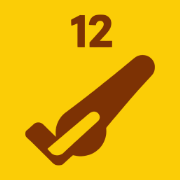
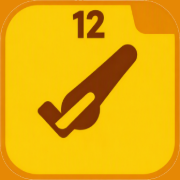
アイコンは★渡された絵そのまま★（枠と折り返しごと）。白の余白だけ消した
前の私の版は ★勝手に枠を外していた★。司さんが渡した絵が正。戻した。
・カード（枠の外周）を ★タイルいっぱい★ に伸ばした（横1344:縦1219→正方形。縦に約10%）
・★元の絵の外側は「透明」ではなく「白」★だったので、下地を塗っても白が上書きしていた
  → 白い画素と透明な画素を ★縁の橙 #E68805★ に置き換えてから伸ばす
  → 角の丸みの外側も橙になり、★白が1pxも残らない★

★これは検査が捕まえた★（目では気づけなかった）:
  tests/home-icon.test.mjs が PNGを自前で展開して四隅の画素を読む。
  直す前は 5枚×四隅=20点すべて #FFFFFF だった → 今は20点すべて #E68805・白0点。
  ★何色であるべきかは決め打ちしない★（絵を替えたら色は変わる）。決まっているのは白が無い事。

node tests/run.js → 全部 緑（32本）

Claude-Session: https://claude.ai/code/session_01XubSutqQm3uxgvTByL8qyQ

diff --git a/index.html b/index.html
@@ -4,24 +4,24 @@
     <meta charset="utf-8" />
     <meta name="viewport" content="width=device-width,initial-scale=1,viewport-fit=cover" />
     <title>Timeally — 一覧</title>
-    <link rel="icon" href="icons/favicon-32.png?v=93219b22" sizes="32x32" />
-    <link rel="apple-touch-icon" href="icons/apple-touch-icon.png?v=93219b22" />
+    <link rel="icon" href="icons/favicon-32.png?v=f30f1502" sizes="32x32" />
+    <link rel="apple-touch-icon" href="icons/apple-touch-icon.png?v=f30f1502" />
     <meta name="apple-mobile-web-app-capable" content="yes" />
     <meta name="apple-mobile-web-app-status-bar-style" content="default" />
     <meta name="apple-mobile-web-app-title" content="Timeally" />
     <meta name="theme-color" content="#FFC72C" />
-    <link rel="manifest" href="manifest.json?v=93219b22" />
+    <link rel="manifest" href="manifest.json?v=f30f1502" />
     <link rel="preconnect" href="https://fonts.googleapis.com" />
     <link rel="preconnect" href="https://fonts.gstatic.com" crossorigin />
     <link href="https://fonts.googleapis.com/css2?family=DM+Mono:wght@400;500&family=Noto+Sans+JP:wght@400;700&display=swap" rel="stylesheet" />
-    <link rel="stylesheet" href="css/timeally.css?v=93219b22" />
+    <link rel="stylesheet" href="css/timeally.css?v=f30f1502" />
   </head>
   <body>
     <div class="tc-appbar">
       <h1>Timeally</h1>
       <span class="tc-sub" id="coname"></span>
       <span class="tc-spacer"></span>
-      <a class="tc-btn sub" href="shukei.html?v=93219b22">集計・印刷</a>
+      <a class="tc-btn sub" href="shukei.html?v=f30f1502">集計・印刷</a>
     </div>
 
     <div class="tc-wrap" id="main" hidden>
@@ -108,17 +108,17 @@
       </section>
     </div>
     <script src="https://cdn.jsdelivr.net/npm/@supabase/supabase-js@2"></script>
-    <script src="js/supa-config.js?v=93219b22"></script>
-    <script src="js/env-badge.js?v=93219b22"></script>
-    <script src="lib/tc-law.js?v=93219b22"></script>
-    <script src="lib/tc-calc.js?v=93219b22"></script>
-    <script src="lib/tc-csv.js?v=93219b22"></script>
-    <script src="lib/tc-name.js?v=93219b22"></script>
-    <script src="lib/qr.js?v=93219b22"></script>
-    <script src="js/file-out.js?v=93219b22"></script>
-    <script src="js/tc-ui.js?v=93219b22"></script>
-    <script src="js/tc-db.js?v=93219b22"></script>
-    <script src="js/owner-app.js?v=93219b22"></script>
+    <script src="js/supa-config.js?v=f30f1502"></script>
+    <script src="js/env-badge.js?v=f30f1502"></script>
+    <script src="lib/tc-law.js?v=f30f1502"></script>
+    <script src="lib/tc-calc.js?v=f30f1502"></script>
+    <script src="lib/tc-csv.js?v=f30f1502"></script>
+    <script src="lib/tc-name.js?v=f30f1502"></script>
+    <script src="lib/qr.js?v=f30f1502"></script>
+    <script src="js/file-out.js?v=f30f1502"></script>
+    <script src="js/tc-ui.js?v=f30f1502"></script>
+    <script src="js/tc-db.js?v=f30f1502"></script>
+    <script src="js/owner-app.js?v=f30f1502"></script>
     <script>
       OwnerApp.startIndex();
     </script>

diff --git a/shukei.html b/shukei.html
@@ -4,24 +4,24 @@
     <meta charset="utf-8" />
     <meta name="viewport" content="width=device-width,initial-scale=1,viewport-fit=cover" />
     <title>Timeally — 集計・印刷</title>
-    <link rel="icon" href="icons/favicon-32.png?v=93219b22" sizes="32x32" />
-    <link rel="apple-touch-icon" href="icons/apple-touch-icon.png?v=93219b22" />
+    <link rel="icon" href="icons/favicon-32.png?v=f30f1502" sizes="32x32" />
+    <link rel="apple-touch-icon" href="icons/apple-touch-icon.png?v=f30f1502" />
     <meta name="apple-mobile-web-app-capable" content="yes" />
     <meta name="apple-mobile-web-app-status-bar-style" content="default" />
     <meta name="apple-mobile-web-app-title" content="Timeally" />
     <meta name="theme-color" content="#FFC72C" />
-    <link rel="manifest" href="manifest.json?v=93219b22" />
+    <link rel="manifest" href="manifest.json?v=f30f1502" />
     <link rel="preconnect" href="https://fonts.googleapis.com" />
     <link rel="preconnect" href="https://fonts.gstatic.com" crossorigin />
     <link href="https://fonts.googleapis.com/css2?family=DM+Mono:wght@400;500&family=Noto+Sans+JP:wght@400;700&display=swap" rel="stylesheet" />
-    <link rel="stylesheet" href="css/timeally.css?v=93219b22" />
+    <link rel="stylesheet" href="css/timeally.css?v=f30f1502" />
   </head>
   <body>
     <div class="tc-appbar">
       <h1>Timeally</h1>
       <span class="tc-sub">集計・印刷</span>
       <span class="tc-spacer"></span>
-      <a class="tc-btn sub" href="index.html?v=93219b22">一覧へ</a>
+      <a class="tc-btn sub" href="index.html?v=f30f1502">一覧へ</a>
     </div>
 
     <div class="tc-wrap" id="main" hidden>
@@ -54,16 +54,16 @@
       </div>
     </div>
     <script src="https://cdn.jsdelivr.net/npm/@supabase/supabase-js@2"></script>
-    <script src="js/supa-config.js?v=93219b22"></script>
-    <script src="js/env-badge.js?v=93219b22"></script>
-    <script src="lib/tc-law.js?v=93219b22"></script>
-    <script src="lib/tc-calc.js?v=93219b22"></script>
-    <script src="lib/tc-csv.js?v=93219b22"></script>
-    <script src="lib/tc-name.js?v=93219b22"></script>
-    <script src="js/file-out.js?v=93219b22"></script>
-    <script src="js/tc-ui.js?v=93219b22"></script>
-    <script src="js/tc-db.js?v=93219b22"></script>
-    <script src="js/owner-app.js?v=93219b22"></script>
+    <script src="js/supa-config.js?v=f30f1502"></script>
+    <script src="js/env-badge.js?v=f30f1502"></script>
+    <script src="lib/tc-law.js?v=f30f1502"></script>
+    <script src="lib/tc-calc.js?v=f30f1502"></script>
+    <script src="lib/tc-csv.js?v=f30f1502"></script>
+    <script src="lib/tc-name.js?v=f30f1502"></script>
+    <script src="js/file-out.js?v=f30f1502"></script>
+    <script src="js/tc-ui.js?v=f30f1502"></script>
+    <script src="js/tc-db.js?v=f30f1502"></script>
+    <script src="js/owner-app.js?v=f30f1502"></script>
     <script>
       OwnerApp.startShukei();
     </script>

diff --git a/login.html b/login.html
@@ -4,17 +4,17 @@
     <meta charset="utf-8" />
     <meta name="viewport" content="width=device-width,initial-scale=1,viewport-fit=cover" />
     <title>Timeally — 会社の入口</title>
-    <link rel="icon" href="icons/favicon-32.png?v=93219b22" sizes="32x32" />
-    <link rel="apple-touch-icon" href="icons/apple-touch-icon.png?v=93219b22" />
+    <link rel="icon" href="icons/favicon-32.png?v=f30f1502" sizes="32x32" />
+    <link rel="apple-touch-icon" href="icons/apple-touch-icon.png?v=f30f1502" />
     <meta name="apple-mobile-web-app-capable" content="yes" />
     <meta name="apple-mobile-web-app-status-bar-style" content="default" />
     <meta name="apple-mobile-web-app-title" content="Timeally" />
     <meta name="theme-color" content="#FFC72C" />
-    <link rel="manifest" href="manifest.json?v=93219b22" />
+    <link rel="manifest" href="manifest.json?v=f30f1502" />
     <link rel="preconnect" href="https://fonts.googleapis.com" />
     <link rel="preconnect" href="https://fonts.gstatic.com" crossorigin />
     <link href="https://fonts.googleapis.com/css2?family=DM+Mono:wght@400;500&family=Noto+Sans+JP:wght@400;700&display=swap" rel="stylesheet" />
-    <link rel="stylesheet" href="css/timeally.css?v=93219b22" />
+    <link rel="stylesheet" href="css/timeally.css?v=f30f1502" />
   </head>
   <body>
     <div class="tc-appbar">
@@ -43,11 +43,11 @@
     </div>
 
     <script src="https://cdn.jsdelivr.net/npm/@supabase/supabase-js@2"></script>
-    <script src="js/supa-config.js?v=93219b22"></script>
-    <script src="js/env-badge.js?v=93219b22"></script>
-    <script src="js/tc-ui.js?v=93219b22"></script>
-    <script src="js/tc-db.js?v=93219b22"></script>
-    <script src="js/owner-app.js?v=93219b22"></script>
+    <script src="js/supa-config.js?v=f30f1502"></script>
+    <script src="js/env-badge.js?v=f30f1502"></script>
+    <script src="js/tc-ui.js?v=f30f1502"></script>
+    <script src="js/tc-db.js?v=f30f1502"></script>
+    <script src="js/owner-app.js?v=f30f1502"></script>
     <script>
       OwnerApp.startLogin();
     </script>

diff --git a/kiroku.html b/kiroku.html
@@ -5,8 +5,8 @@
     <meta name="viewport" content="width=device-width,initial-scale=1,viewport-fit=cover" />
     <meta name="format-detection" content="telephone=no" />
     <title>Timeally — 自分の記録</title>
-    <link rel="icon" href="icons/favicon-32.png?v=93219b22" sizes="32x32" />
-    <link rel="apple-touch-icon" href="icons/apple-touch-icon.png?v=93219b22" />
+    <link rel="icon" href="icons/favicon-32.png?v=f30f1502" sizes="32x32" />
+    <link rel="apple-touch-icon" href="icons/apple-touch-icon.png?v=f30f1502" />
     <meta name="apple-mobile-web-app-capable" content="yes" />
     <meta name="apple-mobile-web-app-status-bar-style" content="default" />
     <meta name="apple-mobile-web-app-title" content="Timeally" />
@@ -14,7 +14,7 @@
     <link rel="preconnect" href="https://fonts.googleapis.com" />
     <link rel="preconnect" href="https://fonts.gstatic.com" crossorigin />
     <link href="https://fonts.googleapis.com/css2?family=DM+Mono:wght@400;500&family=Noto+Sans+JP:wght@400;700&display=swap" rel="stylesheet" />
-    <link rel="stylesheet" href="css/timeally.css?v=93219b22" />
+    <link rel="stylesheet" href="css/timeally.css?v=f30f1502" />
   </head>
   <body>
     <div class="tc-appbar">
@@ -71,11 +71,11 @@
     </div>
 
     <script src="https://cdn.jsdelivr.net/npm/@supabase/supabase-js@2"></script>
-    <script src="js/supa-config.js?v=93219b22"></script>
-    <script src="js/env-badge.js?v=93219b22"></script>
-    <script src="js/tc-ui.js?v=93219b22"></script>
-    <script src="js/tc-db.js?v=93219b22"></script>
-    <script src="js/emp-app.js?v=93219b22"></script>
+    <script src="js/supa-config.js?v=f30f1502"></script>
+    <script src="js/env-badge.js?v=f30f1502"></script>
+    <script src="js/tc-ui.js?v=f30f1502"></script>
+    <script src="js/tc-db.js?v=f30f1502"></script>
+    <script src="js/emp-app.js?v=f30f1502"></script>
     <script>
       EmpApp.startKiroku();
     </script>

diff --git a/punch.html b/punch.html
@@ -5,8 +5,8 @@
     <meta name="viewport" content="width=device-width,initial-scale=1,viewport-fit=cover" />
     <meta name="format-detection" content="telephone=no" />
     <title>Timeally — 打刻</title>
-    <link rel="icon" href="icons/favicon-32.png?v=93219b22" sizes="32x32" />
-    <link rel="apple-touch-icon" href="icons/apple-touch-icon.png?v=93219b22" />
+    <link rel="icon" href="icons/favicon-32.png?v=f30f1502" sizes="32x32" />
+    <link rel="apple-touch-icon" href="icons/apple-touch-icon.png?v=f30f1502" />
     <meta name="apple-mobile-web-app-capable" content="yes" />
     <meta name="apple-mobile-web-app-status-bar-style" content="default" />
     <meta name="apple-mobile-web-app-title" content="Timeally" />
@@ -14,7 +14,7 @@
     <link rel="preconnect" href="https://fonts.googleapis.com" />
     <link rel="preconnect" href="https://fonts.gstatic.com" crossorigin />
     <link href="https://fonts.googleapis.com/css2?family=DM+Mono:wght@400;500&family=Noto+Sans+JP:wght@400;700&display=swap" rel="stylesheet" />
-    <link rel="stylesheet" href="css/timeally.css?v=93219b22" />
+    <link rel="stylesheet" href="css/timeally.css?v=f30f1502" />
   </head>
   <body>
     <div class="tc-appbar">
@@ -72,11 +72,11 @@
     </div>
 
     <script src="https://cdn.jsdelivr.net/npm/@supabase/supabase-js@2"></script>
-    <script src="js/supa-config.js?v=93219b22"></script>
-    <script src="js/env-badge.js?v=93219b22"></script>
-    <script src="js/tc-ui.js?v=93219b22"></script>
-    <script src="js/tc-db.js?v=93219b22"></script>
-    <script src="js/emp-app.js?v=93219b22"></script>
+    <script src="js/supa-config.js?v=f30f1502"></script>
+    <script src="js/env-badge.js?v=f30f1502"></script>
+    <script src="js/tc-ui.js?v=f30f1502"></script>
+    <script src="js/tc-db.js?v=f30f1502"></script>
+    <script src="js/emp-app.js?v=f30f1502"></script>
     <script>
       EmpApp.startPunch();
     </script>
